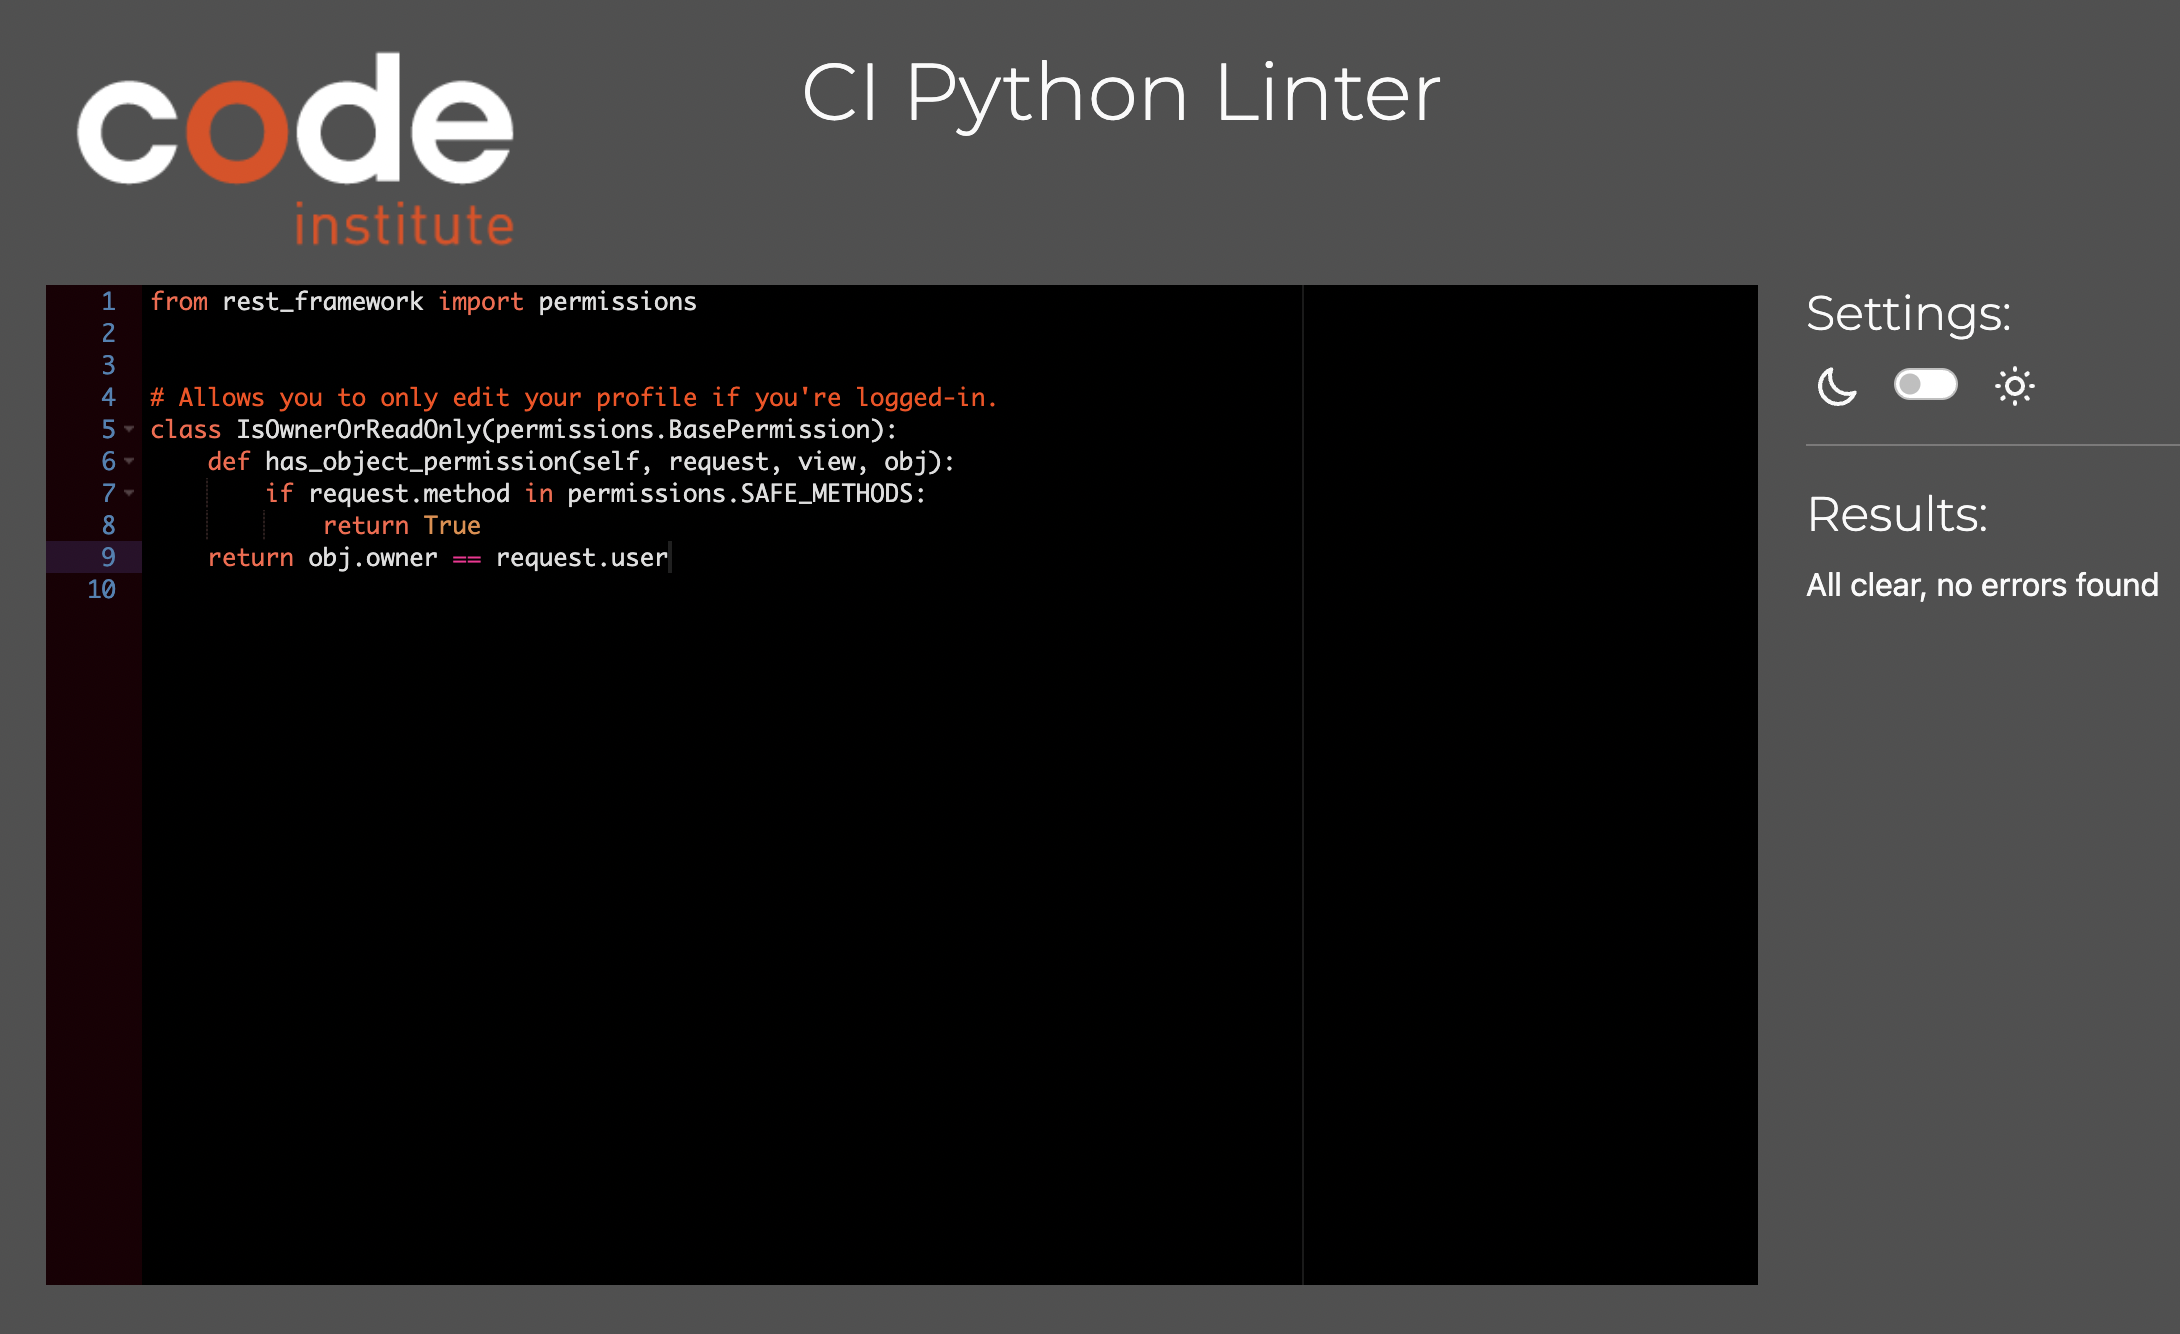
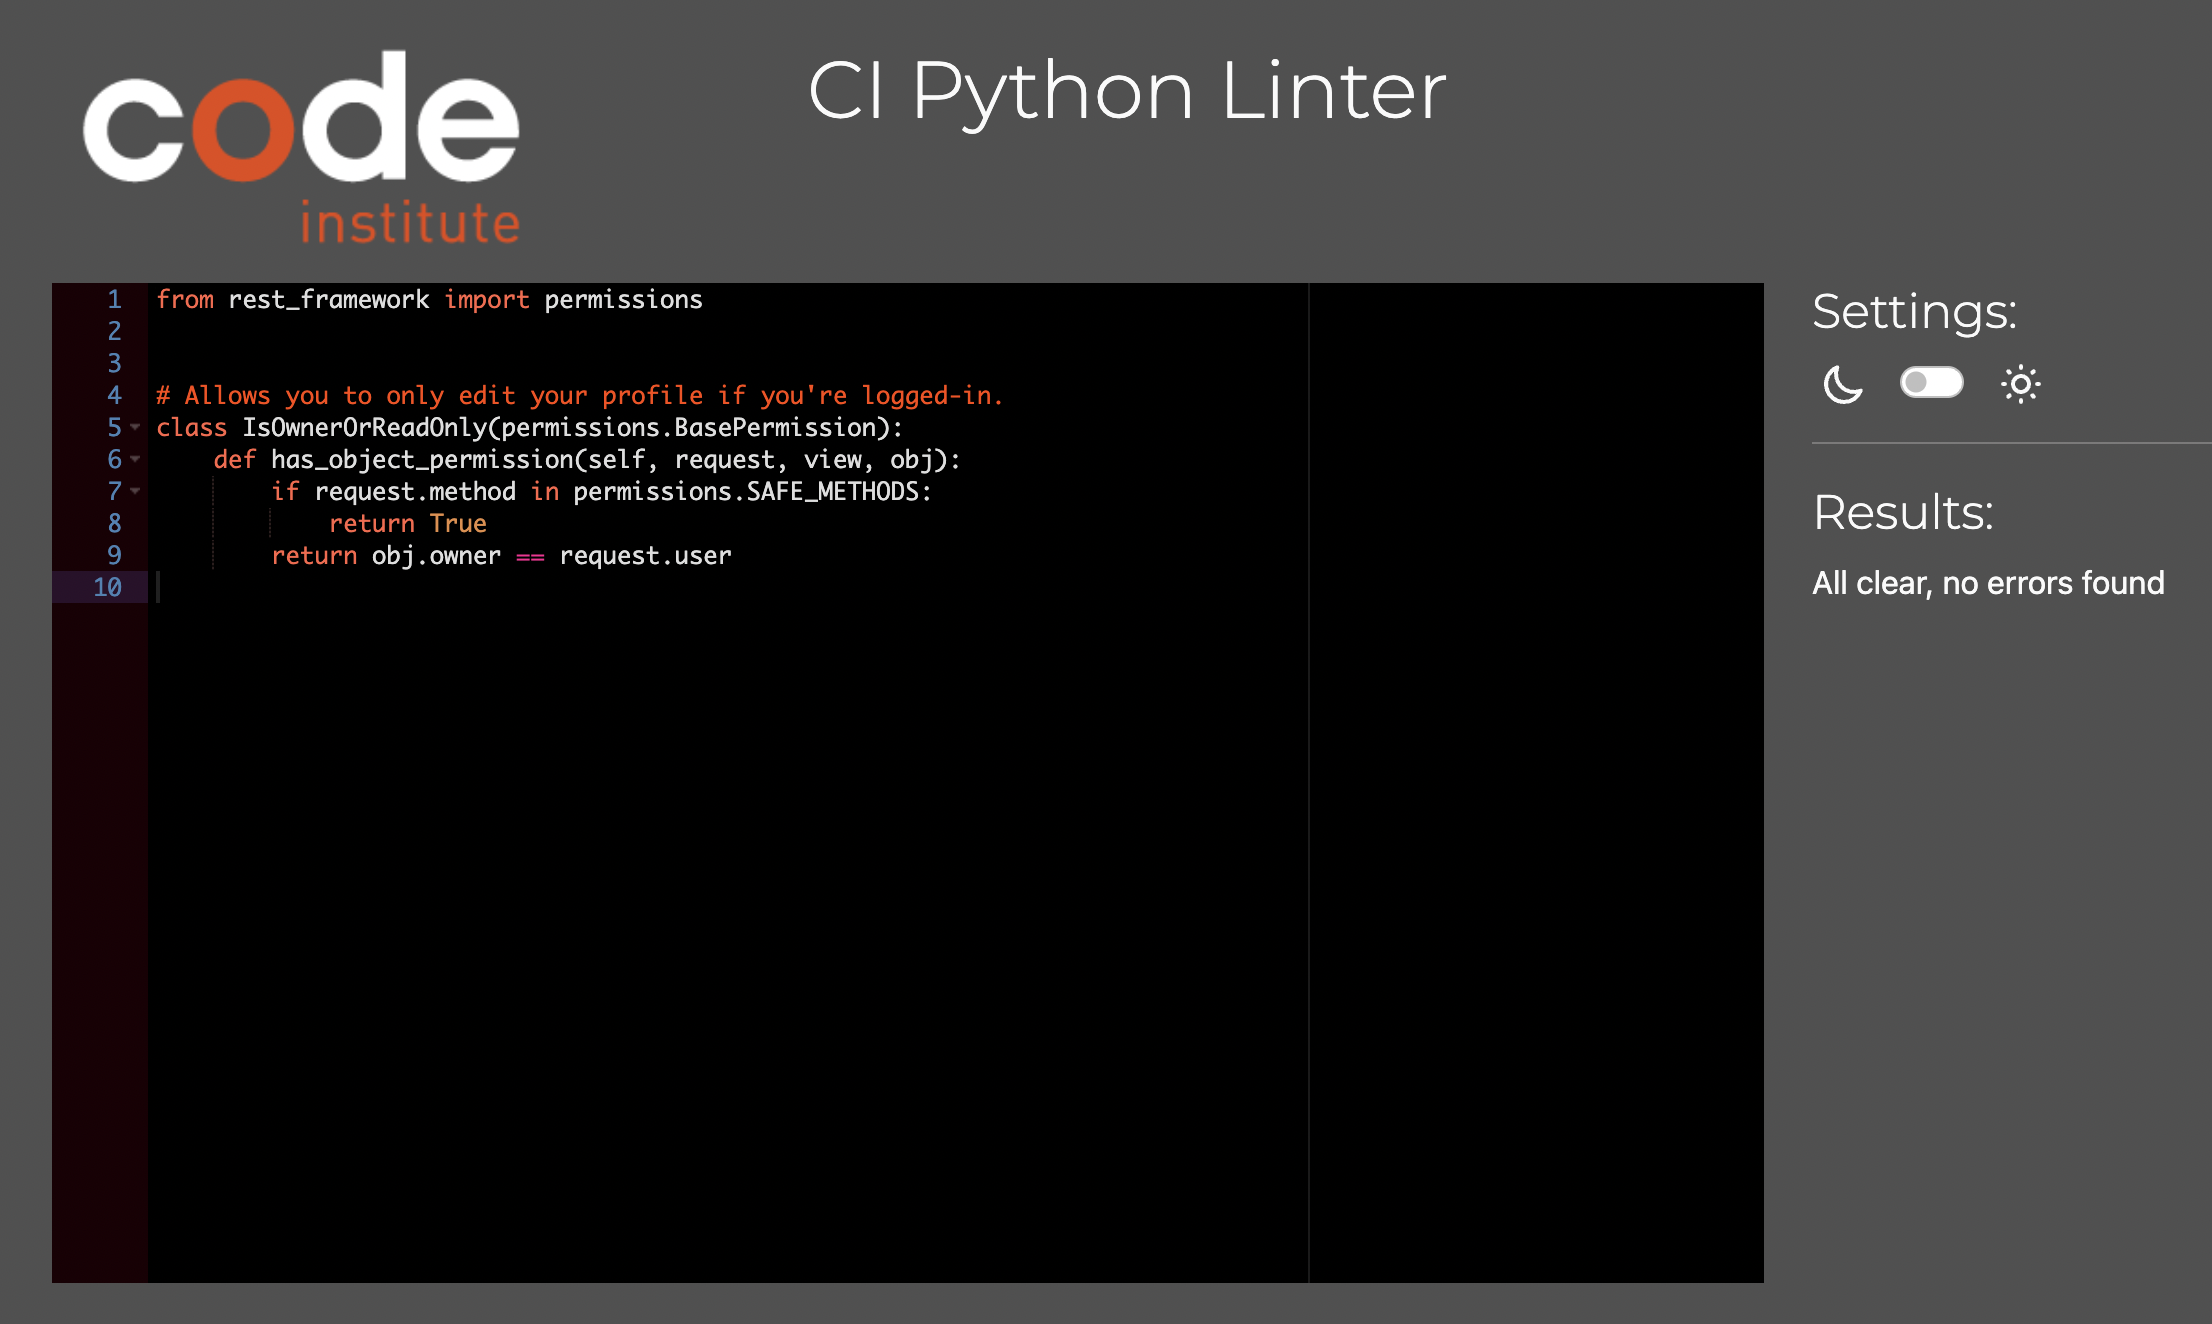
Update credits and bugs section of testing.md file

diff --git a/activities_backend_api/permissions.py b/activities_backend_api/permissions.py
@@ -6,4 +6,4 @@ class IsOwnerOrReadOnly(permissions.BasePermission):
     def has_object_permission(self, request, view, obj):
         if request.method in permissions.SAFE_METHODS:
             return True
-    return obj.owner == request.user
+        return obj.owner == request.user

diff --git a/TESTING.md b/TESTING.md
@@ -7,9 +7,8 @@ Return to [README](README.md)
 
 * [**Testing**](<#testing>)
     * [Code Validation](<#code-validation>)
-    * [Automatic Testing](<#automatic-testing>)
     * [Manual Testing](<#manual-testing>)
-    * [Known Bugs](<#known-bugs>)
+    * [Bugs](<#known-bugs>)
 
 ## Code Validation 
 
@@ -19,7 +18,7 @@ Python codes used throughout the Iowa Summer Activities API were validated using
 
 The most common errors that arose were 'line too long'. This was rectified by adding '  # noqa' to the lines of code in question, which fixed this error.  Please see the results of each component below.
 
-### activities_backend_api files
+### Activities_backend_api files
 
 <details>
   <summary>permissions.py - No errors</summary> 
@@ -95,6 +94,9 @@ The most common errors that arose were 'line too long'. This was rectified by ad
 ![Python Validation](images/testing/contact-views.png)
 </details> 
 
+
+#### [Back to top](<#table-of-contents>)
+
 ### Followers App files
 
 <details>
@@ -164,6 +166,8 @@ The most common errors that arose were 'line too long'. This was rectified by ad
 ![Python Validation](images/testing/posts-views.png)
 </details>
 
+#### [Back to top](<#table-of-contents>)
+
 ### Profiles App files
 
 <details>
@@ -210,79 +214,48 @@ The most common errors that arose were 'line too long'. This was rectified by ad
 ![Python Validation](images/testing/reviews-views.png)
 </details>
 
+#### [Back to top](<#table-of-contents>)
+
+
 ## Manual Testing
+I started by ensuring each url path worked properly by running the backend server and manually entering the urls (following the url pathways I have in the activities_backend_api urls.py file). All opened without error.
 
-<!--As well as the automatic tests which can be found in each app's testing.py file, I carried out the following additional manual tests:
+I then checked CRUD functionality worked properly through the API by logging in as a superuser and testing these features. CRUD functionality should be available for all seven apps: Comments, Contact, Followers, Likes, Posts, Profiles and Reviews.
 
-| Status | **Profiles**
-|:-------:|:--------|
-| &check; | Profile List can be ordered by events_count in ascending order
-| &check; | Profile List can be ordered by events_count in descending order
-| &check; | Profile List can be ordered by followers_count in ascending order
-| &check; | Profile List can be ordered by followers_count in descending order
-| &check; | Profile List can be ordered by following_count in ascending order
-| &check; | Profile List can be ordered by following_count in descending order
-| &check; | Profile List can be ordered by going_count in ascending order
-| &check; | Profile List can be ordered by going_count in descending order
-| &check; | Profile List can be ordered by owner__following__created_at in ascending order
-| &check; | Profile List can be ordered by owner__following__created_at in descending order
-| &check; | Profile List can be ordered by owner__followed__created_at in ascending order
-| &check; | Profile List can be ordered by owner__followed__created_at in descending order
-| &check; | Profile List can be filtered by owner__following__followed__profile
-| &check; | Profile List can be filtered by owner__followed__owner__profile
+Once logged in as the superuser, I went through each of the aforementioned apps by url to see if I was able to: create an item, edit an item and delete an item, which I was able to do on all accounts.
 
-| Status | **Events**
-|:-------:|:--------|
-| &check; | Event List can be ordered by comments_count in ascending order
-| &check; | Event List can be ordered by comments_count in descending order
-| &check; | Event List can be ordered by interested_count in ascending order
-| &check; | Event List can be ordered by interested_count in descending order
-| &check; | Event List can be ordered by going_count in ascending order
-| &check; | Event List can be ordered by going_count in descending order
-| &check; | Event List can be ordered by review_count in ascending order
-| &check; | Event List can be ordered by review_count in descending order
-| &check; | Event List can be ordered by average_rating in ascending order
-| &check; | Event List can be ordered by average_rating in descending order
-| &check; | Event List can be ordered by interested__created_at in ascending order
-| &check; | Event List can be ordered by interested__created_at in descending order
-| &check; | Event List can be ordered by going__created_at in ascending order
-| &check; | Event List can be ordered by going__created_at in descending order
-| &check; | Event List can be ordered by event_date in ascending order
-| &check; | Event List can be ordered by event_date in descending order
-| &check; | Event List can be searched on by owner 'admin'
-| &check; | Event List can be searched on by title 'event'
-| &check; | Event List can be searched on by tag 'sport'
-| &check; | Event List can be searched on by event_date '18'
-| &check; | Event List can be searched on by event_date '04' for all April events
-| &check; | Event List can be filtered by owner__followed__owner__profile
-| &check; | Event List can be filtered by interested__owner__profile
-| &check; | Event List can be filtered by going__owner__profile
-| &check; | Event List can be filtered by owner__profile
-| &check; | Event List can be filtered by category
+I performed manual testing using the Django Rest Framework admin site  throughout the development of this project as a whole. Furthermore, I did manual testing at various steps on the Iowa Summer Activities frontend website, which will be discussed in depth in the TESTING.md file in the frontend documentation.
 
-| Status | **Comments**
-|:-------:|:--------|
-| &check; | Comment List can be filtered by event
+All API endpoints in this portion of the project pass manual testing by posting, retrieving, updating and deleting data, both through the frontend website as well as through the Django rest framework admin site. 
 
-| Status | **Reviews**
-|:-------:|:--------|
-| &check; | Review List can be filtered by event
-
-| Status | **Contact**
-|:-------:|:--------|
-| &check; | Logged in user can create a contact message
+## Resolved Bug
 
 
-## Known Bugs
+1. <details>
+    <summary>Contact form error</summary> 
 
-### Resolved
+    ![Contact form error](images/bugs/contact-form-error.png)
+    </details>
 
-1. In my first project inception mentor meeting, I asked about what kind of field a 'Tags' model field would be, and whether it could just be a standard CharField. My mentor said that keywords should be stored in an array, so after further investigation I installed the Django Taggit Manager package to create an automatic array of words the user inputs into the events form 'tags' field. For some reason, however, despite using the blank=True attribute as per the Taggit docs, the API still requires this field to be filled in in order to sucessfully create a new event. I decided that this was not the end of the world and after a lot of research I left it as a required field. When I came to testing, my events tests were failing since I had changed over to Taggit, and so I had to amend the tests where an event is created to include a tags field as well as the title in order for the tests to pass. 
+    In early development of the Contact model, the form was not posting correctly to the backend API. After troubleshooting on my own and speaking with someone from tutoring, I was reminded I needed to migrate new changes to the model and deploy the backend again. This suggestion solved the problem, errors in the console disappeared and my information from the contact form was posted to the backend correctly. 
 
-2. While testing the followers app, the test 'can_view_follower_list' kept failing and I couldn't understand why. I tried using the model field names for owner and followed but this didn't work. I tried using the related field names but this didn't work either. In the end, I realised while trying to replicate the process in the local server, the URL for Profile List was different. It was missing the last '/' so I amended this in the urls.py file and all the tests passed after this. 
 
-3. Setting up the tests for the contact app, I can't seem to create the test correctly for 'logged_out_user_can_create_contact' and 'logged_in_user_can_create_contact'.  I don't seem to be setting up the create object response correctly, and I asked tutor support and they were unable to tell me how to do it correctly. I decided to do manual tests on this app until I could seek further advice, and on beginning the manual testing, I found that my permsisions were not set up correctly, and I could in fact create a contact whilst being logged out, hence why my automatic test was failing. I have now changed the permissions, and the automatic test for 'logged_out_user_cant_create_contact is now passing. 
+## Unresolved Bug
+There are no other unresolved bugs that I am aware of. Below is a description of the bug identified.
 
-![Contact Test Fail](images/fail_create_contact_test.png)
+1. <details>
+    <summary>POST / GET errors</summary> 
 
-Please click [**_here_**](README.md) to return to the Happening API README file. -->
+    ![Contact form error](images/bugs/post-get-errors.png)
+    </details>
+    
+    These errors show up periodically if the user is not logged in from the frontend website. I spoke to Sean from tutoring and he assured me that this is a known issue and it would not count against my assessment (see below). Furthermore, once the user is logged in the errors disappear, though a hard refresh might be needed.
+
+    <details>
+    <summary>Sean's response</summary> 
+
+    ![Contact form error](images/bugs/backend-error.png)
+    </details>
+
+
+    #### [Back to top](<#table-of-contents>)

diff --git a/README.md b/README.md
@@ -458,8 +458,14 @@ To clone this repository follow the steps below:
 
 # Credits
 
+* When brainstorming which custom models I wanted to include in my project that would be most related to an activities social platform, I came across another student's project, Happening, that had a similar context. The developer created a [Reviews section](https://github.com/quiltingcode/events-backend-api/tree/main/reviews) I thought would be a great addition to the Iowa Summer Activities website. My 'Reviews' app and star rating system is largely based on her custom model.
+
+* My 'Contact' app was developed using another student's repository as a guide. He also created a [Contact model](https://github.com/PEmbarach/drf-api-coffeeie/tree/main/contact), which I used to create my own for Iowa Summer Activities.
+
 * [Lucid chart](https://lucid.app/documents#/documents?folder_id=recent) was used to create the diagram showing the database layout and relationships.
-* To add models to the Django backend, Martin from tutoring was helpful in sending [this documentation](https://codinggear.blog/how-to-register-model-in-django-admin/?utm_content=cmp-true)
+
+* To add models to the Django backend, Martin from tutoring was helpful in sending [this documentation](https://codinggear.blog/how-to-register-model-in-django-admin/?utm_content=cmp-true).
+
 * Code Institute tutors were helpful on various occasions to walk me through troubleshooting when I had issues with getting the backend up and running. Thanks, tutors!
 
 [Back to top](<#table-of-contents>)
